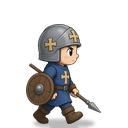
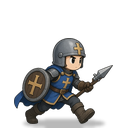
Fixed Shield and Footman walks; wire Hammer Knight and Fire Archer walks

diff --git a/src/render/renderer.ts b/src/render/renderer.ts
@@ -31,9 +31,9 @@ export class Renderer {
       shield: ['idle', 'walkA', 'walkB', 'attack', 'death'],
       tower: ['idle'],
       sniper: ['idle', 'attack', 'death'],
-      firearcher: ['idle', 'attack', 'death'],
+      firearcher: ['idle', 'walkA', 'walkB', 'attack', 'death'],
       cavalry: ['idle', 'attack', 'death'],
-      hammerknight: ['idle', 'attack', 'death'],
+      hammerknight: ['idle', 'walkA', 'walkB', 'attack', 'death'],
       footman: ['idle', 'walkA', 'walkB', 'attack', 'death'],
       footman2: ['idle', 'attack', 'death'],
     };
